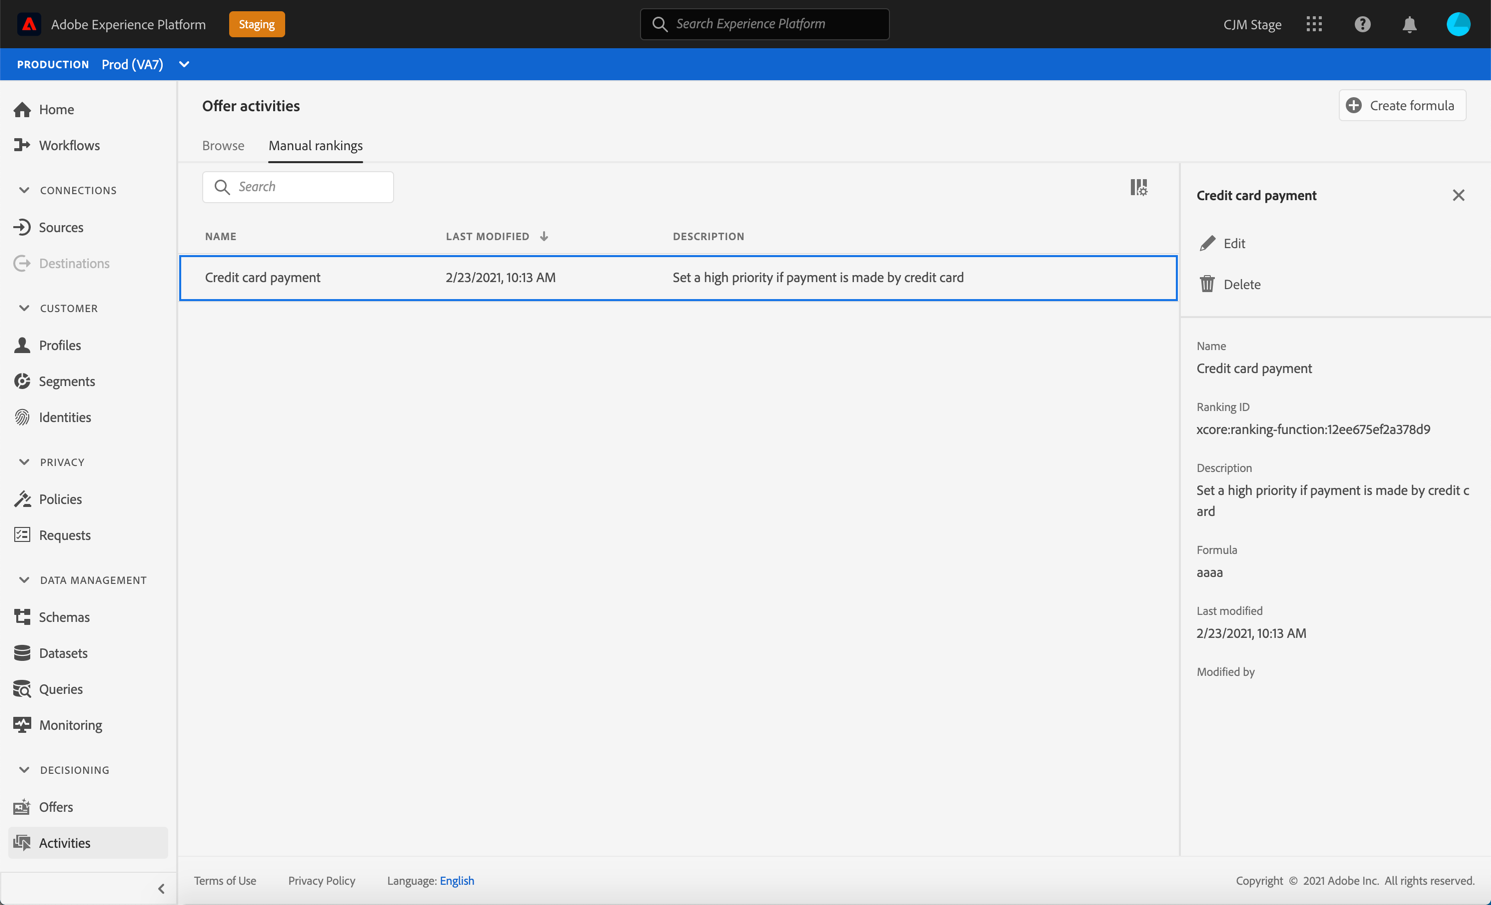
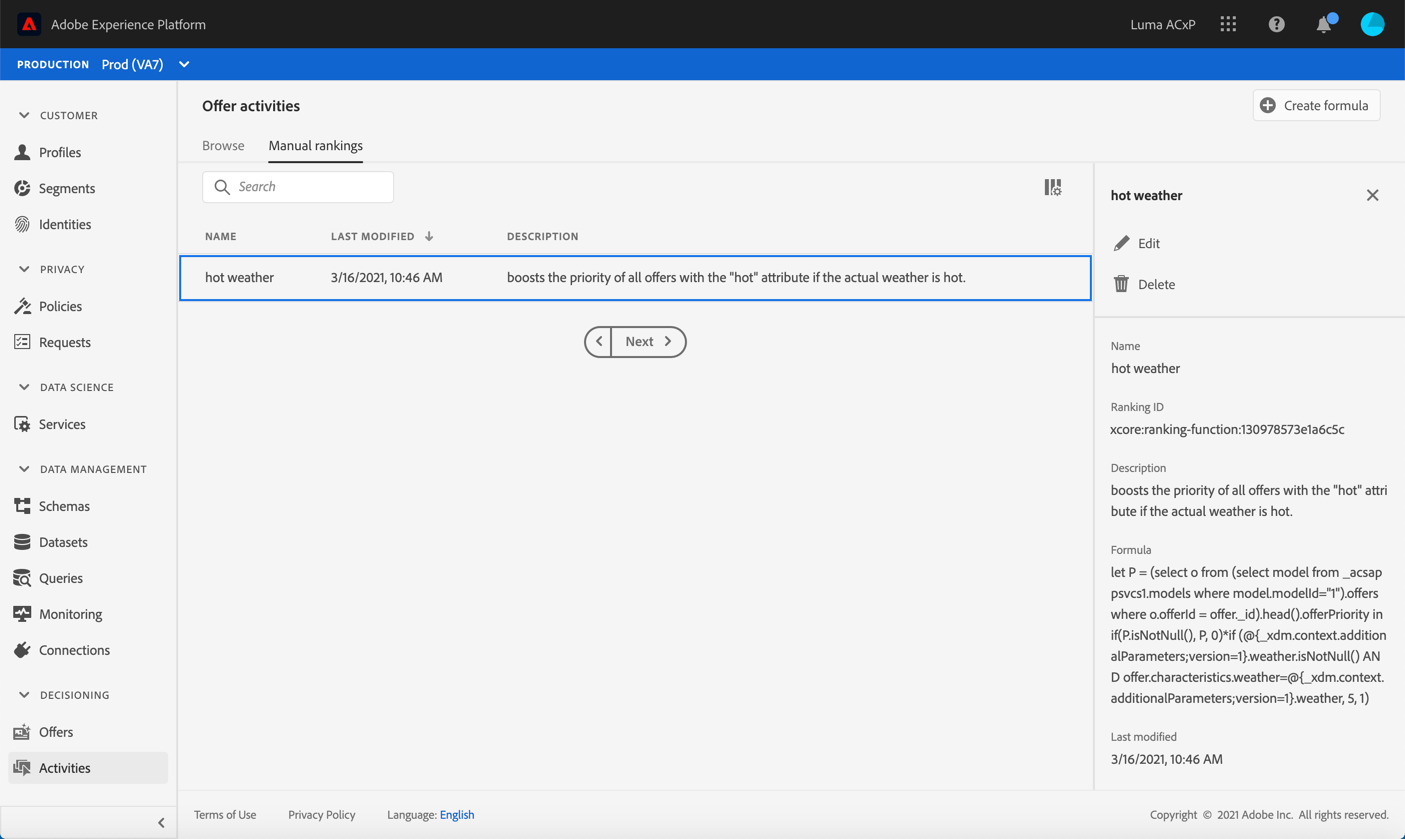
feb-release feedback

diff --git a/help/offer-library/create-ranking-formulas.md b/help/offer-library/create-ranking-formulas.md
@@ -10,9 +10,17 @@ level: Intermediate
 
 # Create ranking formulas {#create-ranking-formulas}
 
-**Ranking formulas** are rules that determine which offer should be presented first for a given placement, rather than taking into account the offers' priority scores.
+## About ranking formulas {#about-ranking-formulas}
+
+**Ranking formulas** allow you to define rules that will determine which offer should be presented first for a given placement, rather than taking into account the offers' priority scores.
+
+For example, you can boost the priority of all offers where the end date is less than 24 hours from now, or boost offers from the "running" category if the profile's point of interest is "running".
+
+Ranking formulas are expressed in **PQL syntax** and can leverage profile attributes, context data and offer attributes. For more on how to use the PQL syntax, refer to the [dedicated documentation](https://experienceleague.adobe.com/docs/experience-platform/segmentation/pql/overview.html).
 
 Once a ranking formula has been created, you can assign it to a placement in an offer activity. For more on this, refer to [this section](../offer-activities/configure-offer-selection.md).
+
+## Create a ranking formula {#create-ranking-formula}
 
 To create a ranking formula, follow the steps below:
 
@@ -24,9 +32,12 @@ To create a ranking formula, follow the steps below:
 
 * Specify the ranking formula name, description, and formula. 
 
+    In this example, we want to boost the priority of all offers with the "hot" attribute if the actual weather is hot. To do this, the **contextData.weather=hot** was passed in the decisioning call.
+
     ![](../assets/ranking-syntax.png)
 
-* Click **[!UICONTROL Save]**. Your manuel ranking is created, it can now be used in an offer activity to rank eligible offers for a placement.
+* Click **[!UICONTROL Save]**. Your ranking formula is created, you can select it from the list to get details and edit or delete it.
+
+    It is now ready to be used in an offer activity to rank eligible offers for a placement (see [Configure offers selection in activities](../offer-activities/configure-offer-selection.md)).
 
     ![](../assets/ranking-formula-created.png)
-

diff --git a/help/offer-activities/configure-offer-selection.md b/help/offer-activities/configure-offer-selection.md
@@ -22,11 +22,11 @@ By default, when several offers are eligible for a given placement, the offers w
 
 ![](../assets/offer-priority.png)
 
-Additionally, Offer Decisioning allows you to create **ranking formulas**. These are formulas that determine which offer should be presented first for a given placement, rather than taking into account the offers' priority scores. 
+Additionally, Offer Decisioning allows you to create **ranking formulas**. These are formulas that determine which offer should be presented first for a given placement, rather than taking into account the offers' priority scores.
+
+For example, you can boost the priority of all offers where the end date is less than 24 hours from now, or boost offers from the "running" category if the profile's point of interest is "running". 
 
 For more on how to create a ranking formula, refer to [this section](../offer-library/create-ranking-formulas.md).
-
-![](../assets/manual-rankings-list.png)
 
 Once a ranking formula has been created, you can assign it to a placement in an offer activity. To do this, follow the steps below:
 
